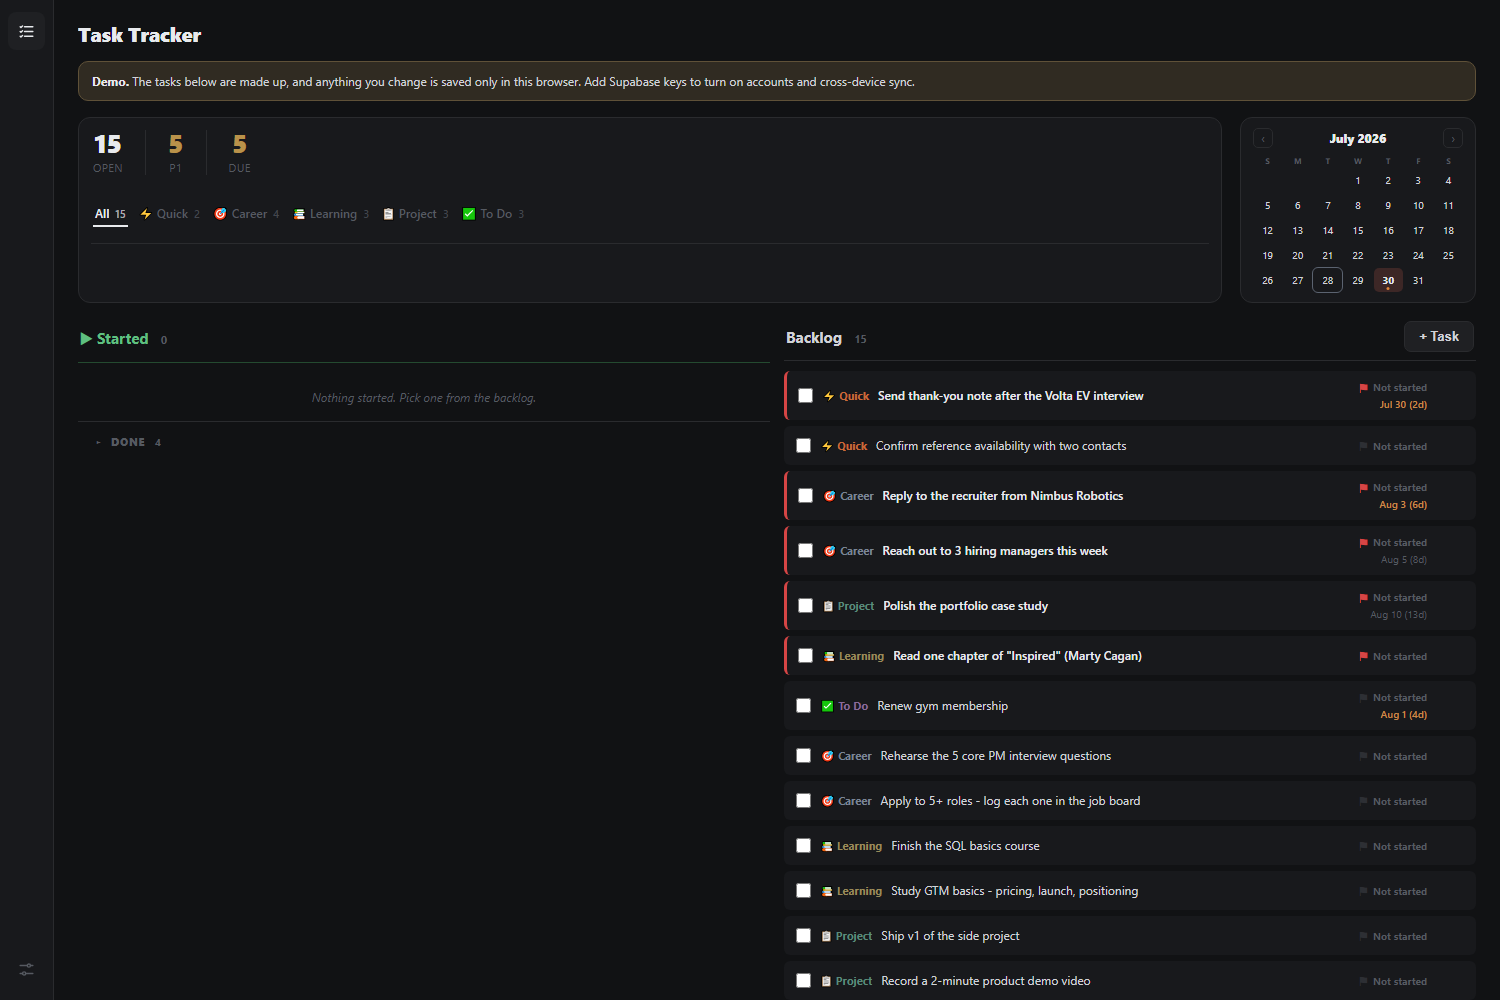
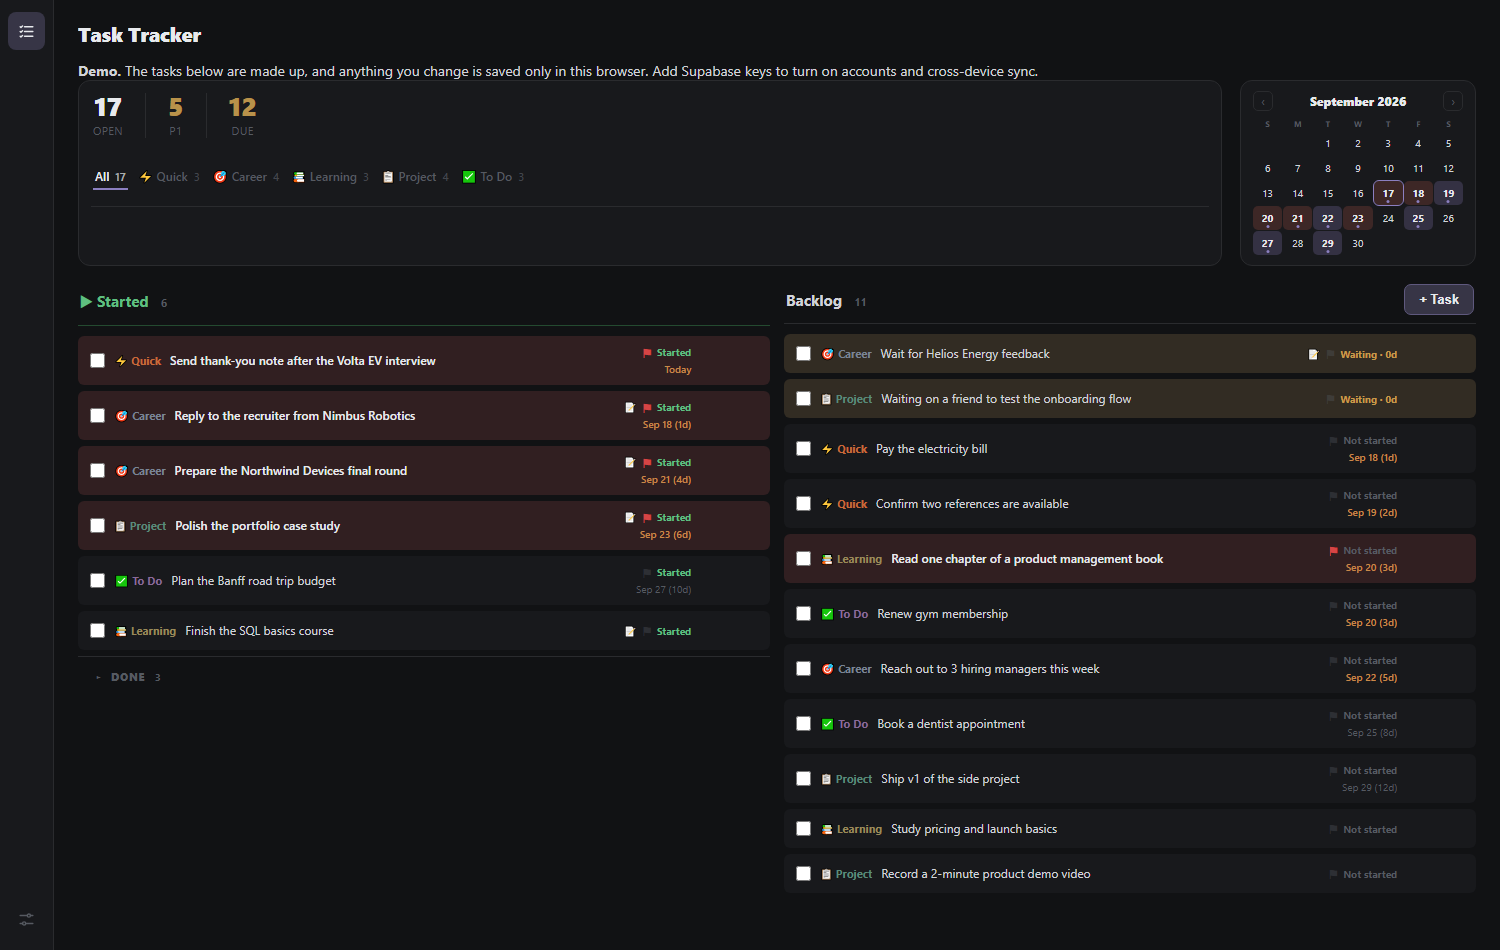
Show the current app: invented data in today's model, fresh screenshots
Demo data rewritten for the current UI (task states and notes, job flow steps and a network,
trips with day plans, nights and photos), with dates relative to the visitor's today. README
screenshots retaken in a real browser and the README updated to match.

diff --git a/index.html b/index.html
@@ -505,32 +505,35 @@ const CAT_SORT  = ['quick','todo','career','project','learning'];
 
 const MOVE = '2026-08-01';
 
+const dIn = n => { const d = new Date(); d.setDate(d.getDate() + n); return d.getFullYear() + '-' + String(d.getMonth() + 1).padStart(2, '0') + '-' + String(d.getDate()).padStart(2, '0'); };
 const TASKS = [
-
-  { id:'CA0', cat:'career', text:'Reply to the recruiter from Nimbus Robotics', pri:1, done:false, due:'2026-08-03' },
-  { id:'CA1', cat:'career', text:'Update LinkedIn headline and About section', done:true },
-  { id:'CA2', cat:'career', text:'Reach out to 3 hiring managers this week', pri:1, done:false, due:'2026-08-05' },
-  { id:'CA3', cat:'career', text:'Rehearse the 5 core PM interview questions', done:false },
-  { id:'CA4', cat:'career', text:'Apply to 5+ roles - log each one in the job board', done:false },
-  { id:'CA5', cat:'career', text:'Write follow-up notes after the Volta EV interview', done:true },
-
-  { id:'LE0', cat:'learning', text:'Read one chapter of "Inspired" (Marty Cagan)', pri:1, done:false },
-  { id:'LE1', cat:'learning', text:'Finish the SQL basics course', done:false },
-  { id:'LE2', cat:'learning', text:'Study GTM basics - pricing, launch, positioning', done:false },
-  { id:'LE3', cat:'learning', text:'Review funnel metrics - acquisition, activation, retention', done:true },
-
-  { id:'PR0', cat:'project', text:'Polish the portfolio case study', pri:1, done:false, due:'2026-08-10' },
-  { id:'PR1', cat:'project', text:'Ship v1 of the side project', done:false },
+  { id:'QK0', cat:'quick', text:'Send thank-you note after the Volta EV interview', pri:1, done:false, due:dIn(0), state:'started' },
+  { id:'QK1', cat:'quick', text:'Confirm two references are available', done:false, due:dIn(2) },
+  { id:'QK2', cat:'quick', text:'Pay the electricity bill', done:false, due:dIn(1) },
+  { id:'CA0', cat:'career', text:'Reply to the recruiter from Nimbus Robotics', pri:1, done:false, due:dIn(1), state:'started',
+    notes:[ { on:dIn(-3), text:'Recruiter asked for salary range and notice period.' }, { on:dIn(-1), text:'Drafted the reply, checking the range with a friend first.' } ] },
+  { id:'CA1', cat:'career', text:'Prepare the Northwind Devices final round', pri:1, done:false, due:dIn(4), state:'started',
+    notes:[ { on:dIn(-2), text:'Panel is product, engineering and ops. Two trade-off stories needed.' } ] },
+  { id:'CA2', cat:'career', text:'Reach out to 3 hiring managers this week', done:false, due:dIn(5) },
+  { id:'CA3', cat:'career', text:'Wait for Helios Energy feedback', done:false, state:'waiting',
+    notes:[ { on:dIn(-6), text:'Recruiter said feedback by end of next week.' } ] },
+  { id:'CA4', cat:'career', text:'Update LinkedIn headline and About section', done:true },
+  { id:'LE0', cat:'learning', text:'Read one chapter of a product management book', pri:1, done:false, due:dIn(3) },
+  { id:'LE1', cat:'learning', text:'Finish the SQL basics course', done:false, state:'started',
+    notes:[ { on:dIn(-8), text:'Modules 1-4 done.' }, { on:dIn(-2), text:'Joins and window functions left.' } ] },
+  { id:'LE2', cat:'learning', text:'Study pricing and launch basics', done:false },
+  { id:'LE3', cat:'learning', text:'Review funnel metrics: acquisition, activation, retention', done:true },
+  { id:'PR0', cat:'project', text:'Polish the portfolio case study', pri:1, done:false, due:dIn(6), state:'started',
+    notes:[ { on:dIn(-4), text:'Rewrote the problem statement. Needs a before/after chart.' } ] },
+  { id:'PR1', cat:'project', text:'Ship v1 of the side project', done:false, due:dIn(12) },
   { id:'PR2', cat:'project', text:'Record a 2-minute product demo video', done:false },
-
-  { id:'TD0', cat:'todo', text:'Book a dentist appointment', done:false },
-  { id:'TD1', cat:'todo', text:'Renew gym membership', done:false, due:'2026-08-01' },
-  { id:'TD2', cat:'todo', text:'Plan the weekend trip', done:false },
+  { id:'PR3', cat:'project', text:'Waiting on a friend to test the onboarding flow', done:false, state:'waiting' },
+  { id:'TD0', cat:'todo', text:'Book a dentist appointment', done:false, due:dIn(8) },
+  { id:'TD1', cat:'todo', text:'Renew gym membership', done:false, due:dIn(3) },
+  { id:'TD2', cat:'todo', text:'Plan the Banff road trip budget', done:false, due:dIn(10), state:'started' },
   { id:'TD3', cat:'todo', text:'Set up a weekly budget review', done:true },
-
-  { id:'QK0', cat:'quick', text:'Send thank-you note after the Volta EV interview', pri:1, done:false, due:'2026-07-30' },
-  { id:'QK1', cat:'quick', text:'Confirm reference availability with two contacts', done:false },
 ];
+
 const SEED = 'v21';
 
 let tasks = [], nextTaskId = 1;

diff --git a/README.md b/README.md
@@ -25,7 +25,11 @@ the top of it. Done work folds away under Started so it counts without shouting.
 Inside a panel the order is decided for you: quick wins first, then P1, then whatever is due
 soonest. You never sort the list yourself.
 
-**Every tag on a row is a control.** Click the category to move a task to another one, the priority
+**Every task keeps a dated log.** Hover a row and its notes open underneath it, newest first: what
+happened, what is next. Click the log to add a line. The row never grows at rest, so a long list
+stays a list.
+
+**Every tag on a row is a control. Click the category to move a task to another one, the priority
 to flag or unflag it, the status to move it between not started, started and waiting. Click the
 text to edit the task properly. It is all one click, no dialogs to open first.
 
@@ -54,7 +58,7 @@ Small, separate apps that share a look but nothing else - separate data, separat
 | Task Tracker | this one |
 | Job Search | https://github.com/DereckCB/job-search |
 | Trip Planner | https://github.com/DereckCB/trip-planner |
-| Household Budget | https://github.com/DereckCB/budget |
+| Household Budget | https://github.com/DereckCB/household-budget |
 
 ## License
 
